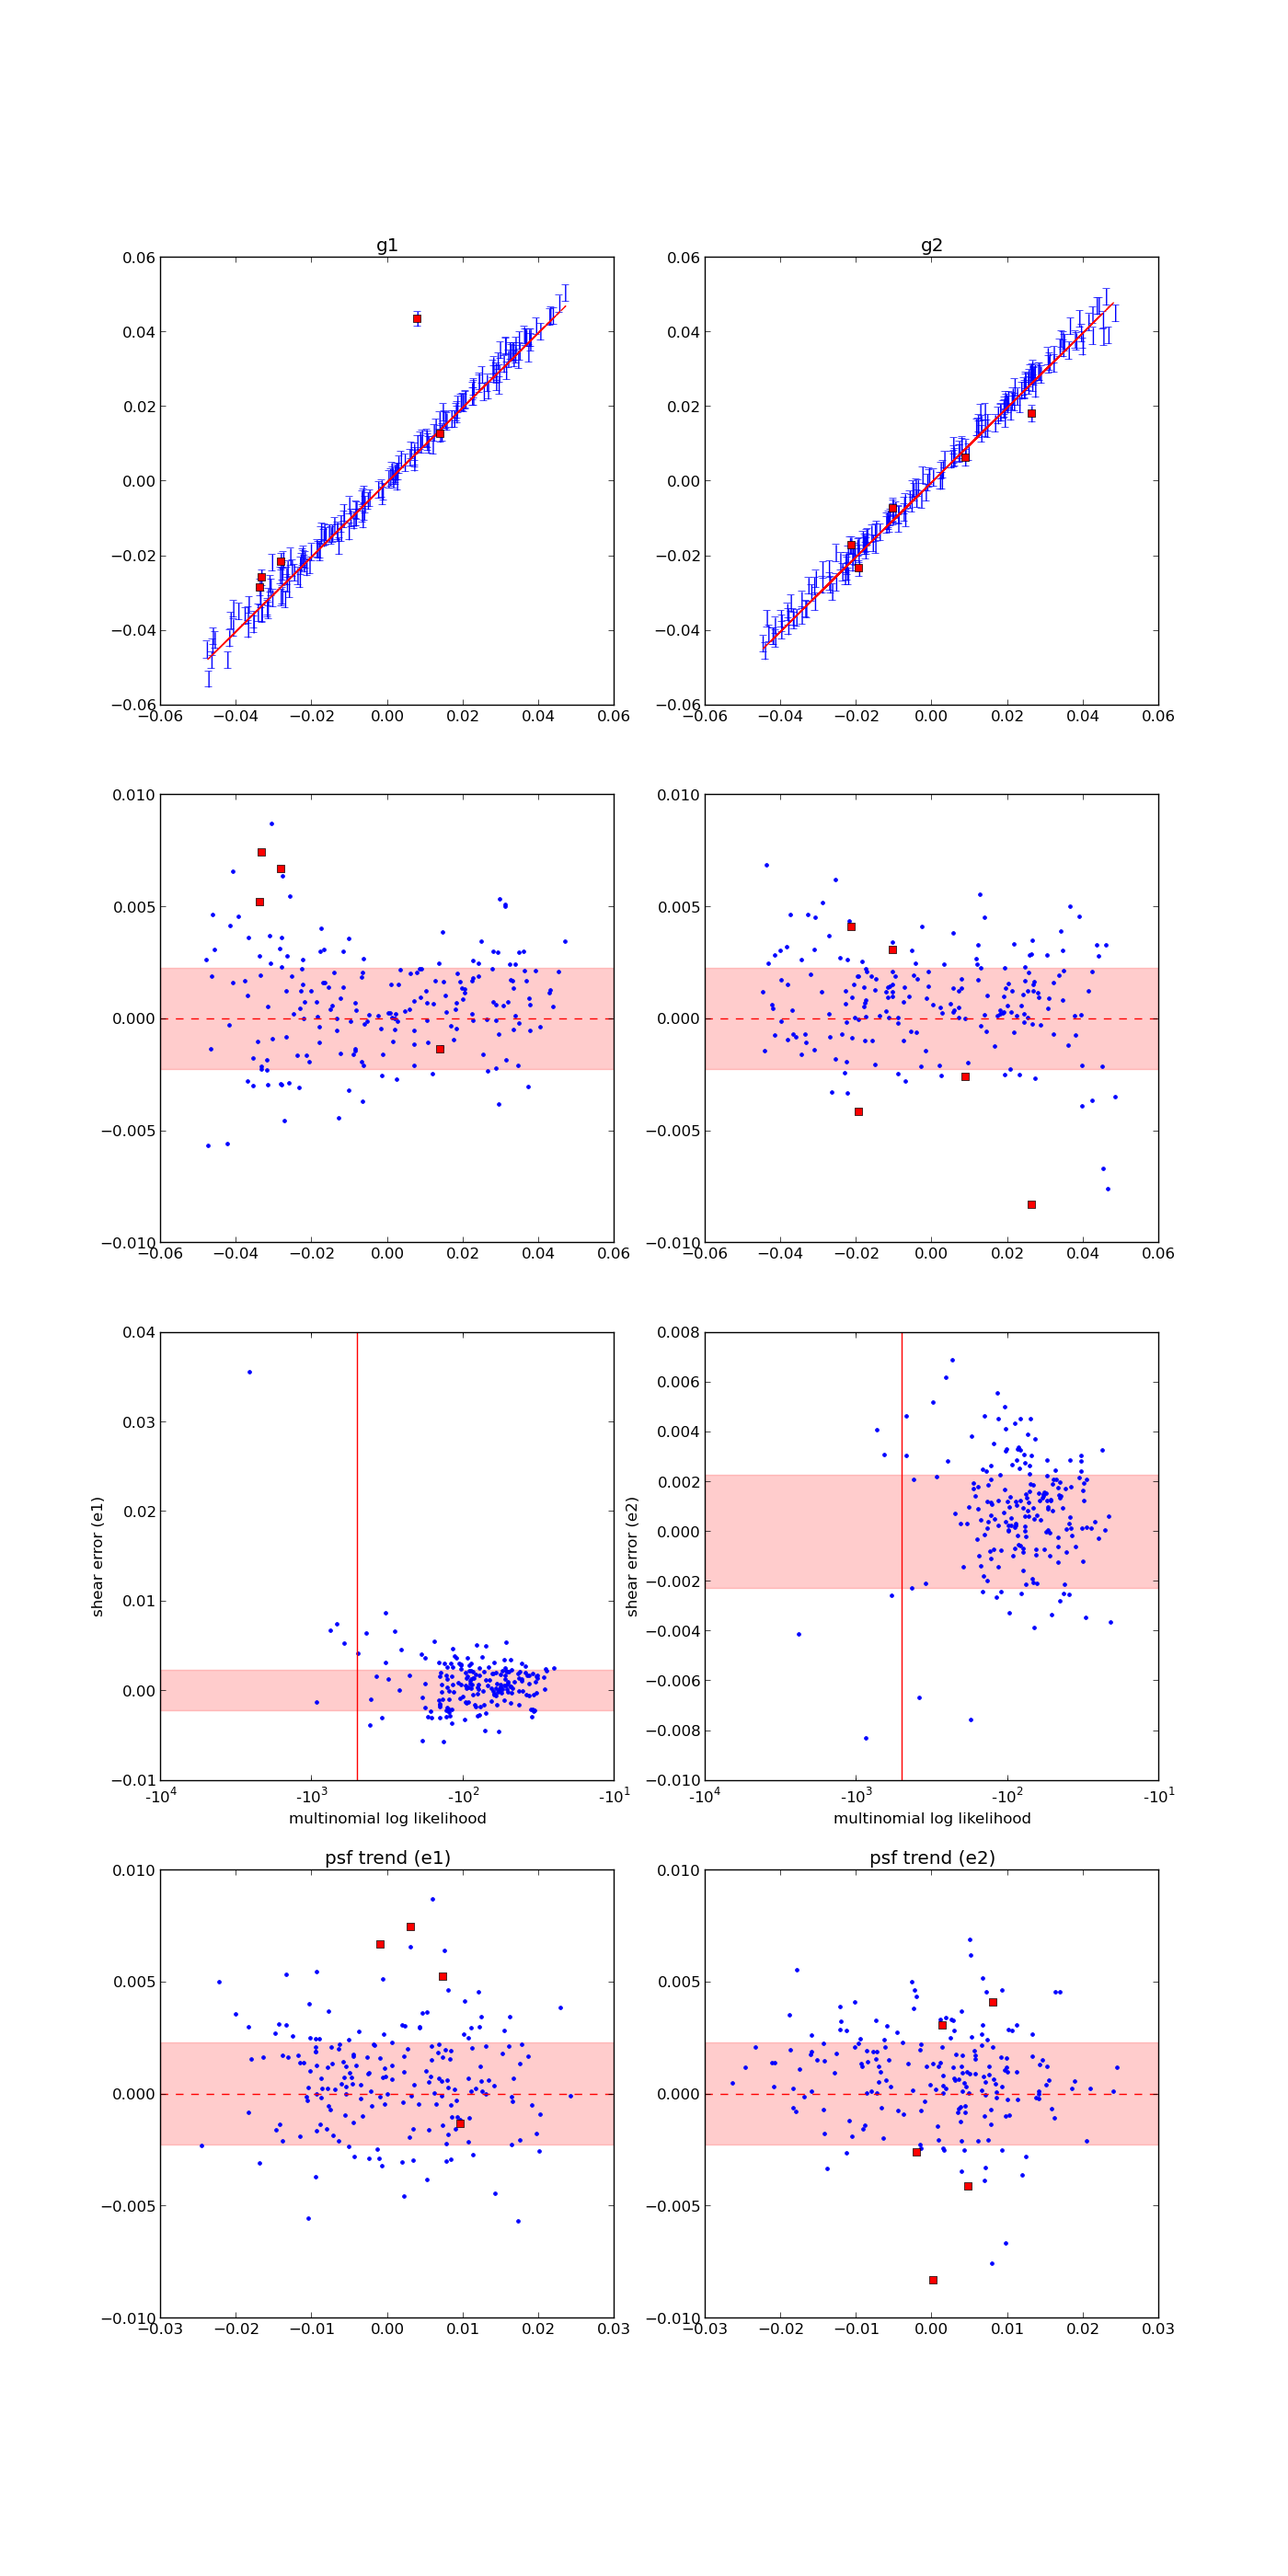
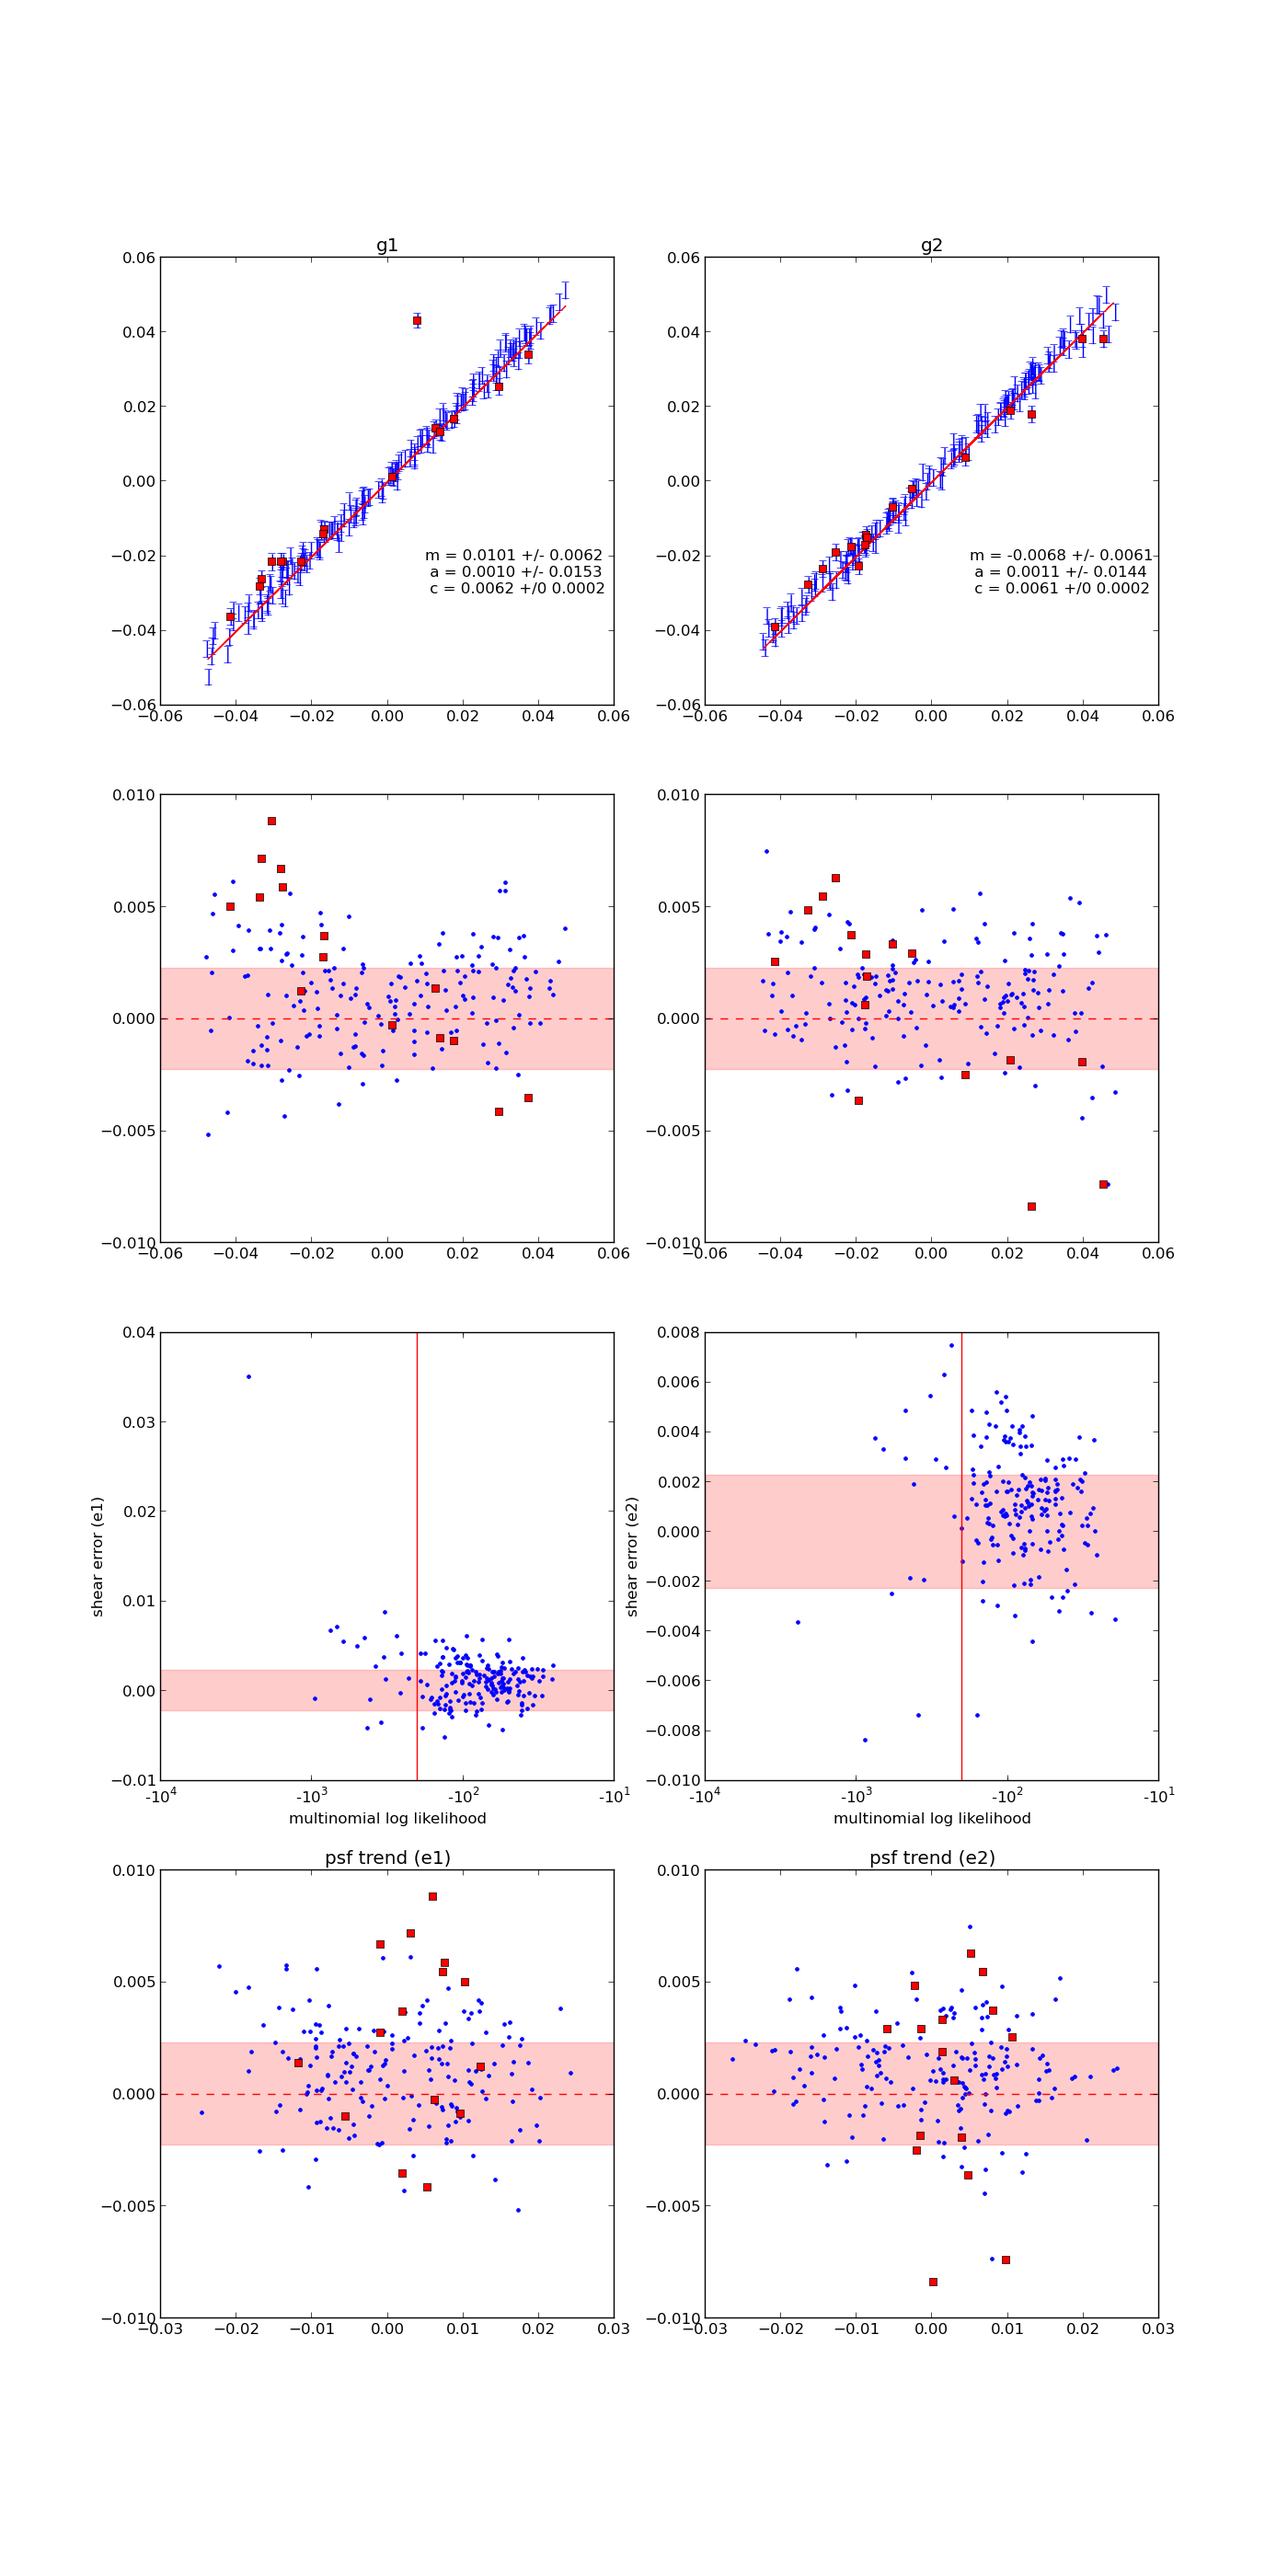
Added uncorrected rgc-fixedaber-regauss plots.

diff --git a/tex/metacalibration.tex b/tex/metacalibration.tex
@@ -504,6 +504,12 @@ wave.
 \caption{Results of metacalibration for regauss on RGC with large amplitude but small disperion aberrations. From {\bf right} to {\bf left}: regauss, ksb, moments. Note that we do not have these results for any method yet.}
 \end{figure*}
 
+\begin{figure*}
+\includegraphics[width=0.3\linewidth]{./Plots/rgc-fixedaber-regauss-no_corrections.png}
+\caption{ RGC-fixed aberration regaussianization outputs, without metacalibration. Calibration coefficients are inset.}
+\end{figure*}
+
+
 \section{Results}
 \towrite{Outline overall results, i.e., {\it veni, vidi, vici}}
 \toplotemh{Table of Meta-Calibrated shear and psf calibration biases.}
